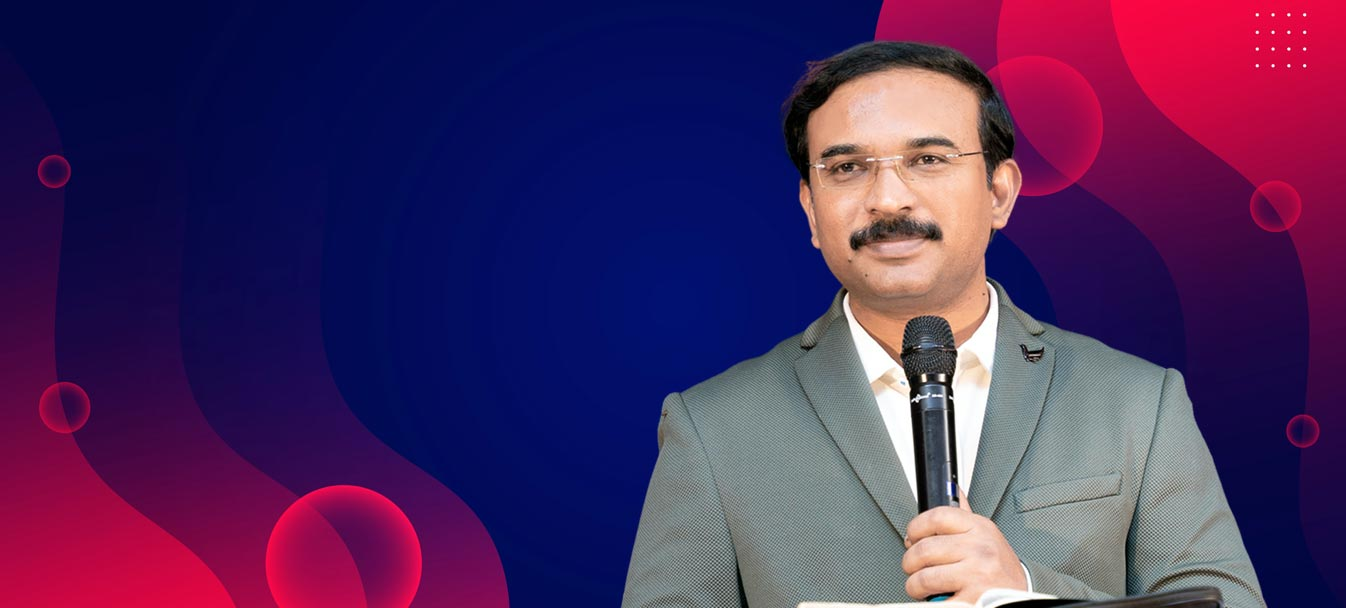
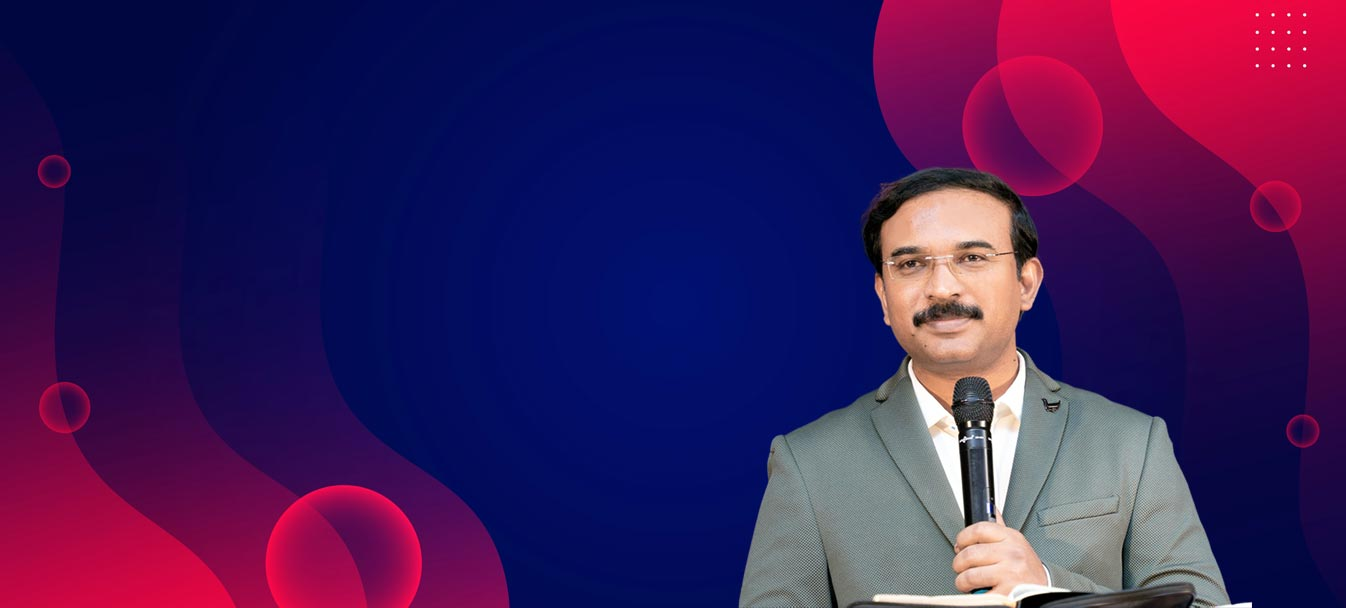
fix: Reduce autoplay delay and adjust background position in HeroCarousel component

Changed region(s): [[0.4368, 0.0625, 0.9673, 1.0]]

diff --git a/src/components/HeroCarousel.tsx b/src/components/HeroCarousel.tsx
@@ -37,7 +37,7 @@ export default function HeroCarousel() {
     <div className="hero-inline relative w-full h-[80vh]">
       <Swiper
         modules={[Autoplay, Pagination, Navigation]}
-        autoplay={{ delay: 150000, disableOnInteraction: true }}
+        autoplay={{ delay: 15000, disableOnInteraction: true }}
         pagination={{ clickable: true }}
         navigation
         loop
@@ -53,8 +53,8 @@ export default function HeroCarousel() {
           return (
             <SwiperSlide key={slide.id}>
               <div
-                className={`w-full h-full bg-center bg-cover flex ${justifyClass}`}
-                style={{ backgroundImage: `url(${slide.image})` }}
+                className={`w-full h-full bg-cover flex ${justifyClass}`}
+                style={{ backgroundImage: `url(${slide.image})`, backgroundPosition: '30% 0' }}
               >
                 <div className={`bg-black/50 ${textAlignClass} ${leftPadClass} p-6 rounded-lg max-w-xl w-full md:w-auto`}>
                   <h2 className="text-3xl md:text-5xl font-bold text-white mb-10">
